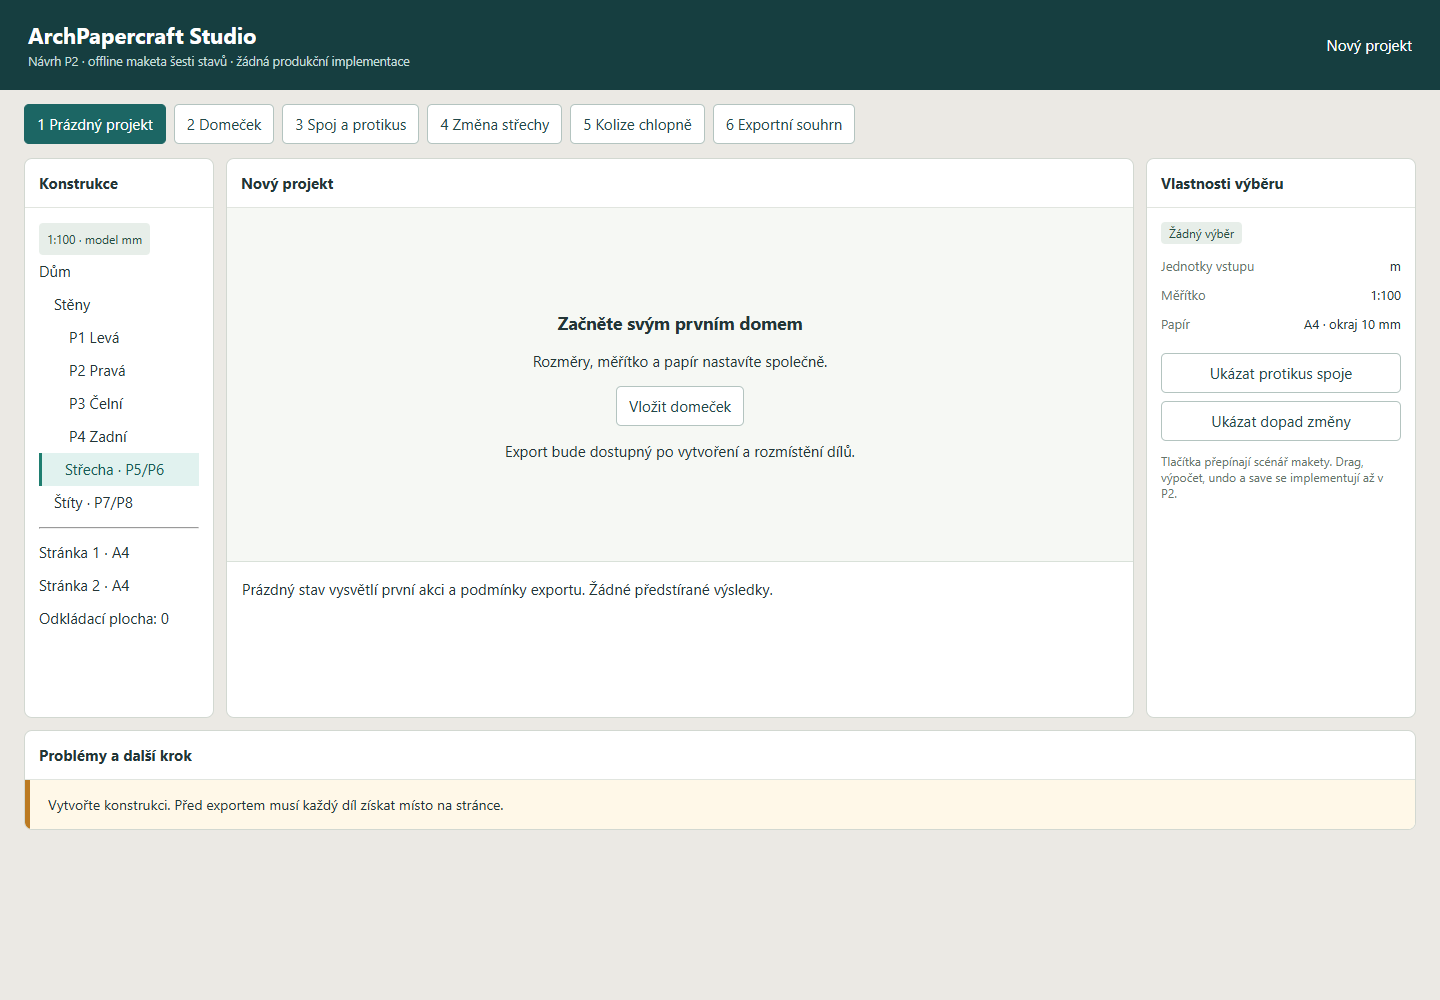
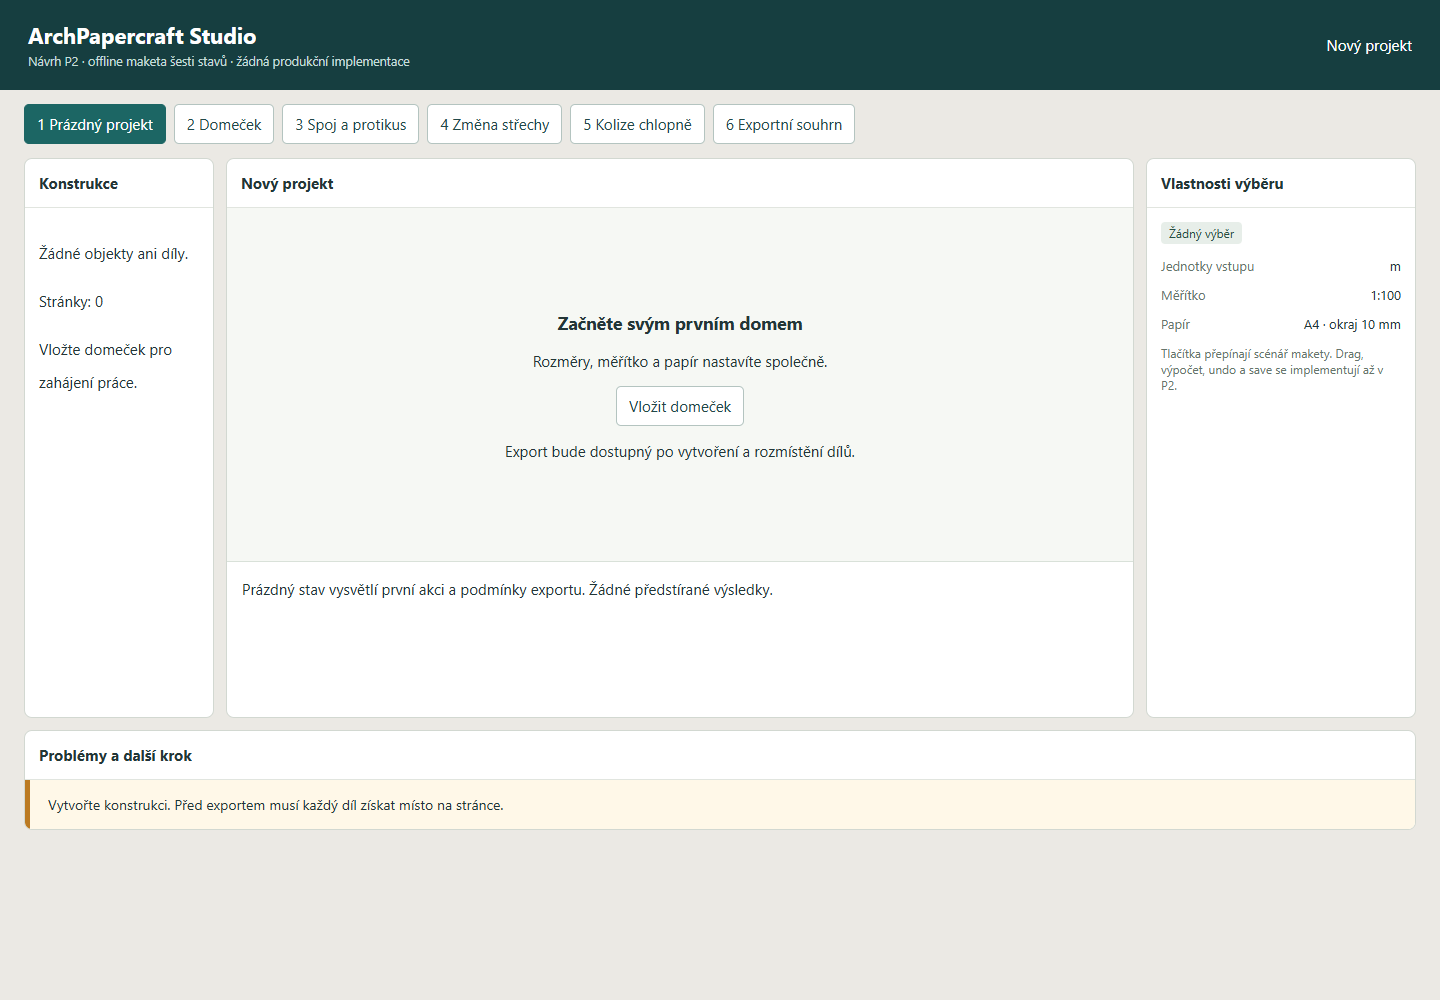
docs: correct empty UX state and preserve original proof line endings

Changed region(s): [[0.8125, 0.341, 0.9688, 0.496], [0.0312, 0.341, 0.1562, 0.62], [0.0312, 0.217, 0.125, 0.31]]

diff --git a/docs/revival/ux-prototype.html b/docs/revival/ux-prototype.html
@@ -32,7 +32,25 @@ joint:{mode:'Díly a spoje · vybrán hřeben J01',selection:'J01 · P5 ↔ P6',
 stale:{mode:'Konstrukce · změněna výška střechy',selection:'P5/P6 · vyžadují kontrolu',properties:[['Převýšení střechy','3 → 3,5 m'],['Stěny P1–P4','Beze změny'],['Polohy stěn','Zachovány'],['Střecha','Přepočítat a zkontrolovat'],['Úplný export','Blokován']],caption:'Starý obrys zůstává viditelný jako neaktuální. Nedotčené díly si ponechají identity, polohy, rotace a zámky.',issue:'Neaktuální geometrie střechy. Přepočítejte; při jednoznačné kontinuitě se původní poloha zachová. Zastaralý snapshot nelze přijmout jako aktuální.'},
 collision:{mode:'Stránky · kolize chlopně J12',selection:'J12 · kolize na stránce 2',properties:[['Problém','Chlopeň zasahuje P3'],['Oprava A','Posunout díl'],['Oprava B','Upravit chlopeň'],['Zámek polohy','Samostatný'],['Zámek rotace','Samostatný'],['Přesný vstup','X / Y / úhel']],caption:'Kontrola používá celý materiálový obrys včetně chlopní. Vybere konkrétní dvojici a nabídne opravu. Dotyk hrany se odlišuje od plošného průniku.',issue:'Kolize chlopně J12 se stěnou P3. Záměrný překryv lze potvrdit pro konkrétní revizi; přesah fyzického papíru ani rozbité reference tím nelze prominout.'},
 export:{mode:'Exportní souhrn · stejný snapshot pro SVG a PDF',selection:'Revize projektu 12 · návrh',properties:[['SVG','Soubor na každou stránku'],['PDF','2 vektorové stránky'],['Neumístěné díly','0'],['Kalibrace','100 mm'],['Tisk','100 % / skutečná velikost']],caption:'Souhrn odliší integritu, potvrditelná varování a částečný výstup. Úspěch hlásí až po zápisu všech souborů. Toto je ilustrační stav návrhu.',issue:'Ukázkové varování okraje. Skutečná přejímka P2 vyžaduje Windows průchod, otevření/editaci SVG v Inkscape a kontrolu vektorového PDF.'}}
-function showState(name){const s=states[name];for(const id of ['mode','selection','caption','issue'])document.getElementById(id).textContent=s[id];document.getElementById('properties').replaceChildren(...s.properties.flatMap(([a,b])=>{const dt=document.createElement('dt'),dd=document.createElement('dd');dt.textContent=a;dd.textContent=b;return [dt,dd]}));document.querySelectorAll('nav button').forEach(b=>b.setAttribute('aria-pressed',String(b.dataset.state===name)));for(const id of ['modelView','paperView'])document.getElementById(id).style.display=['empty','export'].includes(name)?'none':'block';document.getElementById('empty').style.display=name==='empty'?'block':'none';document.getElementById('export').style.display=name==='export'?'block':'none';document.getElementById('staleOverlay').style.display=name==='stale'?'block':'none';document.getElementById('collision').style.display=name==='collision'?'block':'none';document.getElementById('joint2d').style.display=name==='joint'?'block':'none';document.getElementById('joint3d').style.display=name==='joint'?'block':'none';document.getElementById('status').textContent=name==='empty'?'Nový projekt':'Projekt: Referenční dům · 1:100';history.replaceState(null,'','#'+name)}
+const constructionTree = document.querySelector('.content.tree');
+const populatedTreeMarkup = constructionTree.innerHTML;
+function showState(name){
+ const s=states[name];
+ for(const id of ['mode','selection','caption','issue'])document.getElementById(id).textContent=s[id];
+ constructionTree.innerHTML=name==='empty'?'<p>Žádné objekty ani díly.</p><p>Stránky: 0</p><p>Vložte domeček pro zahájení práce.</p>':populatedTreeMarkup;
+ document.querySelectorAll('aside button').forEach(button=>{button.hidden=name==='empty';button.disabled=name==='empty'});
+ document.getElementById('properties').replaceChildren(...s.properties.flatMap(([a,b])=>{const dt=document.createElement('dt'),dd=document.createElement('dd');dt.textContent=a;dd.textContent=b;return [dt,dd]}));
+ document.querySelectorAll('nav button').forEach(b=>b.setAttribute('aria-pressed',String(b.dataset.state===name)));
+ for(const id of ['modelView','paperView'])document.getElementById(id).style.display=['empty','export'].includes(name)?'none':'block';
+ document.getElementById('empty').style.display=name==='empty'?'block':'none';
+ document.getElementById('export').style.display=name==='export'?'block':'none';
+ document.getElementById('staleOverlay').style.display=name==='stale'?'block':'none';
+ document.getElementById('collision').style.display=name==='collision'?'block':'none';
+ document.getElementById('joint2d').style.display=name==='joint'?'block':'none';
+ document.getElementById('joint3d').style.display=name==='joint'?'block':'none';
+ document.getElementById('status').textContent=name==='empty'?'Nový projekt':'Projekt: Referenční dům · 1:100';
+ history.replaceState(null,'','#'+name);
+}
 document.querySelectorAll('[data-state]').forEach(b=>b.addEventListener('click',()=>showState(b.dataset.state)));showState(states[location.hash.slice(1)]?location.hash.slice(1):'house');
 </script>
 </html>

diff --git a/tools/revival/prepare_traceability.py b/tools/revival/prepare_traceability.py
@@ -6,6 +6,8 @@ import re
 ROOT = Path(__file__).resolve().parents[2]
 queue_path = ROOT/'05_WORK_QUEUE.json'
 queue = json.loads(queue_path.read_text(encoding='utf-8-sig'))
+if any(t['stage'] in ['P0','P1'] and t['status'] not in ['PLANNED','IN_REVIEW','IN_PROGRESS'] for t in queue['tickets']):
+    raise SystemExit('Refusing to regress reviewed or accepted queue state; this is a one-time P1 preparation helper')
 queue['updated_on'] = '2026-11-05'
 queue['baseline_sha'] = 'd689af67e059512fdc99e85e9eb0b8d432f4c5d4'
 queue['working_branch'] = 'revival/p0-p1-contract'

diff --git a/docs/revival/GEOMETRY_SPIKE.md b/docs/revival/GEOMETRY_SPIKE.md
@@ -36,7 +36,7 @@ Samostatná orákula: analytické délky/plochy panelů a rotačních povrchů, 
 | Tentýž válec z capped mesh, 64 segmentů | Extrahovaný profil má r=10 a výšku 30 | r=9.846153846, z=0.46875 a 29.53125, tedy výška 29.0625 | Binning posune konce profilu dovnitř a průměrování zahrne centra uzávěrů. Ani nepřesunutý objekt nedává analytické rozměry. |
 | Kuželový pás r1=10/r2=20/s=30 | Mezikruhová výseč: R1=30, R2=60, úhel 2π/3, oblouky 20π a 40π, radiální hrany 30 | Lichoběžník má správnou plochu 900π, ale obě spojované strany 43.4391579 mm | Chyba strany 13.4392 mm (+44.8 %). Plošný test by vadu minul. Obrys je chybný pro přesný kuželový rozvin. |
 | Jemná koule r=10, 64 segmentů/32 rings | Hladká Gaussova křivost 1/r²=0.01; nelze přesně rozvinout bez deformace nebo explicitních facet cuts | Jedna patch, všech 3968 faces označeno DEVELOPABLE, lokální úhel nejvýše 5.6316°. Celkový úhlový deficit 12.566370614358682 ≈ 4π, minimum deficitu vertexu 0.00094508 > 0 | Malé lokální úhly neurčují nulovou Gaussovu křivost. Tvrzení classifier docstringu neodpovídá jeho algoritmu. |
-| Rigidní posun/rotace válce | Lokální profil a rozměry nezávislé na world umístění | Posun [100,200,300] změní radius na přibližně 223.7169; rotace X o 90° vytváří falešný vícebodový profil. Rigidní exact unfold jednoho páru triangles se mění jen do 2.27e-13 mm. | Chyba je v extrakci vůči globálnímu počátku/Z, nikoli v délkovém unfolderu. Osy/parametrický profil musí pocházet z lokálního elementu. |
+| Rigidní posun/rotace válce | Lokální profil a rozměry nezávislé na world umístění | Posun [100,200,300] změní radius na přibližně 223.7169; samotná rotace X o 90° vrátí `None`, kombinace této rotace a posunu vytvoří falešný vícebodový profil. Rigidní exact unfold jednoho páru triangles se mění jen do 2.27e-13 mm. | Chyba je v extrakci vůči globálnímu počátku/Z, nikoli v délkovém unfolderu. Osy/parametrický profil musí pocházet z lokálního elementu. |
 | Dvě oddělené triangles | Přímé API odmítne nepropojený vstup nebo vrátí celé pokrytí | `unfold_part([0,1])` vrátí 1 face bez chyby; wrapper `unfold_all_parts` vrátí správně obě komponenty | Přímé API může ztratit faces. Guard a úplnost jsou nutné i když UI obvykle používá wrapper. |
 | Non-manifold hrana se třemi triangles | Odmítnutí nebo konkrétní unsupported | Vráceny 3 faces bez chyby, dva triangles se překrývají plochou 50 mm² | Čistě stromové rozložení bez validace neumí garantovat materiálovou plochu. |
 | Chlopeň na spodní hraně CCW čtverce 20 × 20 | Chlopeň vně materiálu; obrácení indexace nemění stranu | Forward hrana vytvoří 80 mm² materiálového překryvu, reversed 0 | Levá normála samotné hrany není definice vnější strany materiálu. |
